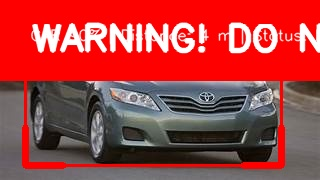
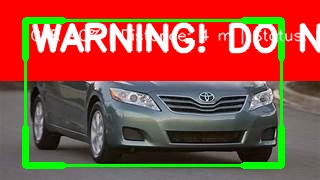
feat: implement vehicle tracking logic and UI overlay for real-time traffic safety detection

Changed region(s): [[0.0625, 0.0833, 0.9062, 0.9722]]

diff --git a/lib/widgets/detection_overlay.dart b/lib/widgets/detection_overlay.dart
@@ -34,25 +34,8 @@ class _DetectionPainter extends CustomPainter {
         detection.boundingBox.height * size.height,
       );
 
-      Color boxColor;
-      Color bracketColor;
-
-      final category = detection.distanceCategory;
-      final isApproaching = detection.isApproaching;
-
-      if (category == DistanceCategory.VERY_CLOSE && isApproaching) {
-        boxColor = const Color(0xFFFF3B30); // Red
-        bracketColor = const Color(0xFFFF453A); // Neon Red
-      } else if (category == DistanceCategory.CLOSE && isApproaching) {
-        boxColor = const Color(0xFFFF9F0A); // Yellow/Amber
-        bracketColor = const Color(0xFFFFB30A); // Neon Yellow
-      } else if (category == DistanceCategory.MEDIUM && isApproaching) {
-        boxColor = const Color(0xFFFF9F0A); // Yellow/Amber
-        bracketColor = const Color(0xFFFFB30A); // Neon Yellow
-      } else {
-        boxColor = const Color(0xFF30D158); // Green
-        bracketColor = const Color(0xFF34C759); // Neon Green
-      }
+      Color boxColor = const Color(0xFF30D158); // Green
+      Color bracketColor = const Color(0xFF34C759); // Neon Green
 
       // Neon paint for bounding boxes
       final boxPaint = Paint()

diff --git a/test_with_python/Main.py b/test_with_python/Main.py
@@ -234,17 +234,14 @@ def main():
 
             # Determine individual warning style
             if dist_cat == "very_close" and is_approaching:
-                box_color = (0, 0, 255)  # Red
                 alert_level = "danger"
             elif dist_cat == "close" and is_approaching:
-                box_color = (0, 255, 255)  # Yellow
                 alert_level = "warning"
             elif dist_cat == "medium" and is_approaching:
-                box_color = (0, 255, 255)  # Yellow
                 alert_level = "caution"
             else:
-                box_color = (0, 255, 0)  # Green
                 alert_level = "safe"
+            box_color = (0, 255, 0)  # Always Green (BGR)
 
             # Draw bounding box
             cv2.rectangle(frame, (bbox[0], bbox[1]), (bbox[2], bbox[3]), box_color, 2)
@@ -382,17 +379,14 @@ def main():
 
           # Determine individual warning style
           if dist_cat == "very_close" and is_approaching:
-              box_color = (0, 0, 255)  # Red
               alert_level = "danger"
           elif dist_cat == "close" and is_approaching:
-              box_color = (0, 255, 255)  # Yellow
               alert_level = "warning"
           elif dist_cat == "medium" and is_approaching:
-              box_color = (0, 255, 255)  # Yellow
               alert_level = "caution"
           else:
-              box_color = (0, 255, 0)  # Green
               alert_level = "safe"
+          box_color = (0, 255, 0)  # Always Green (BGR)
 
           # Draw neon bounding box
           cv2.rectangle(frame, (bbox[0], bbox[1]), (bbox[2], bbox[3]), box_color, 2)